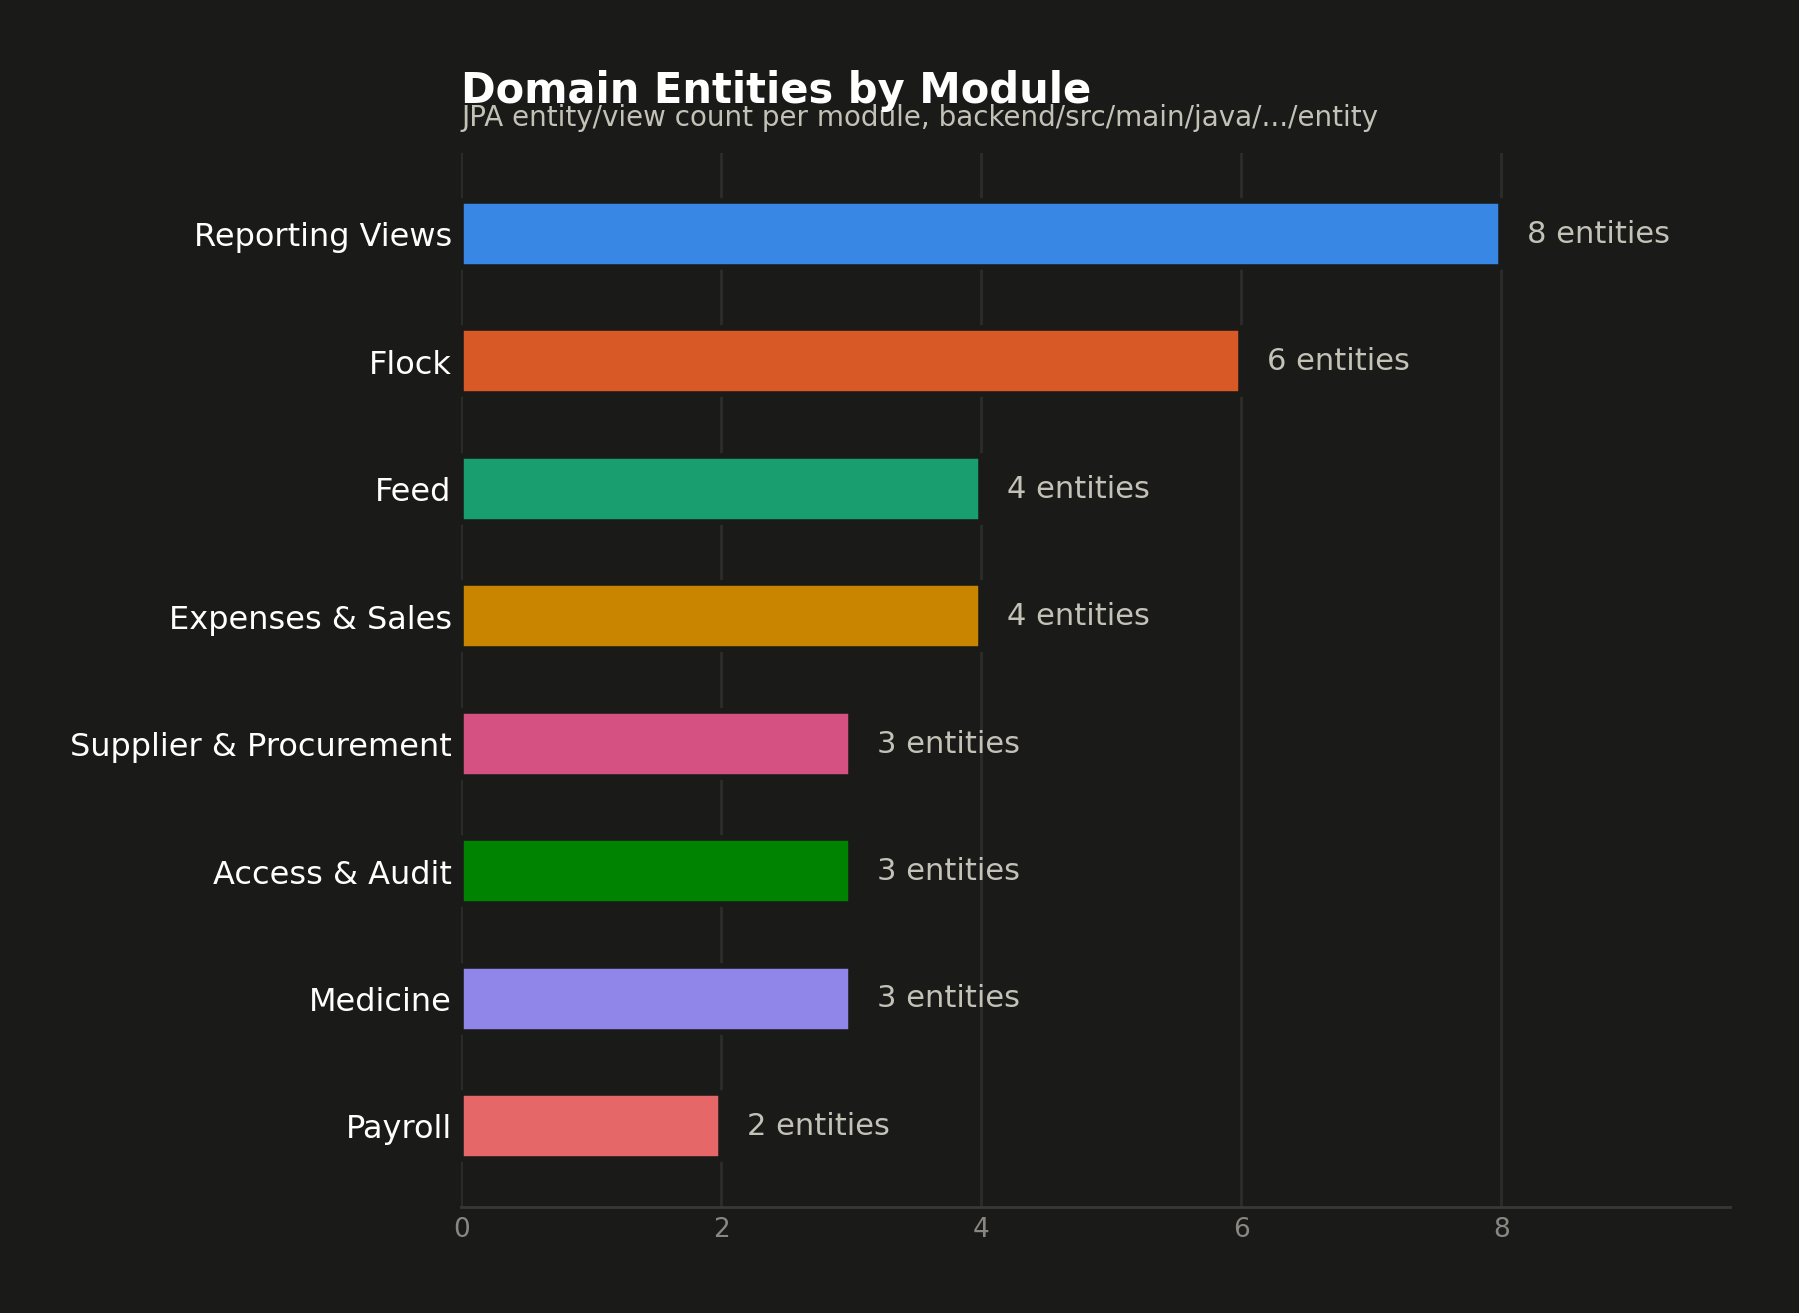
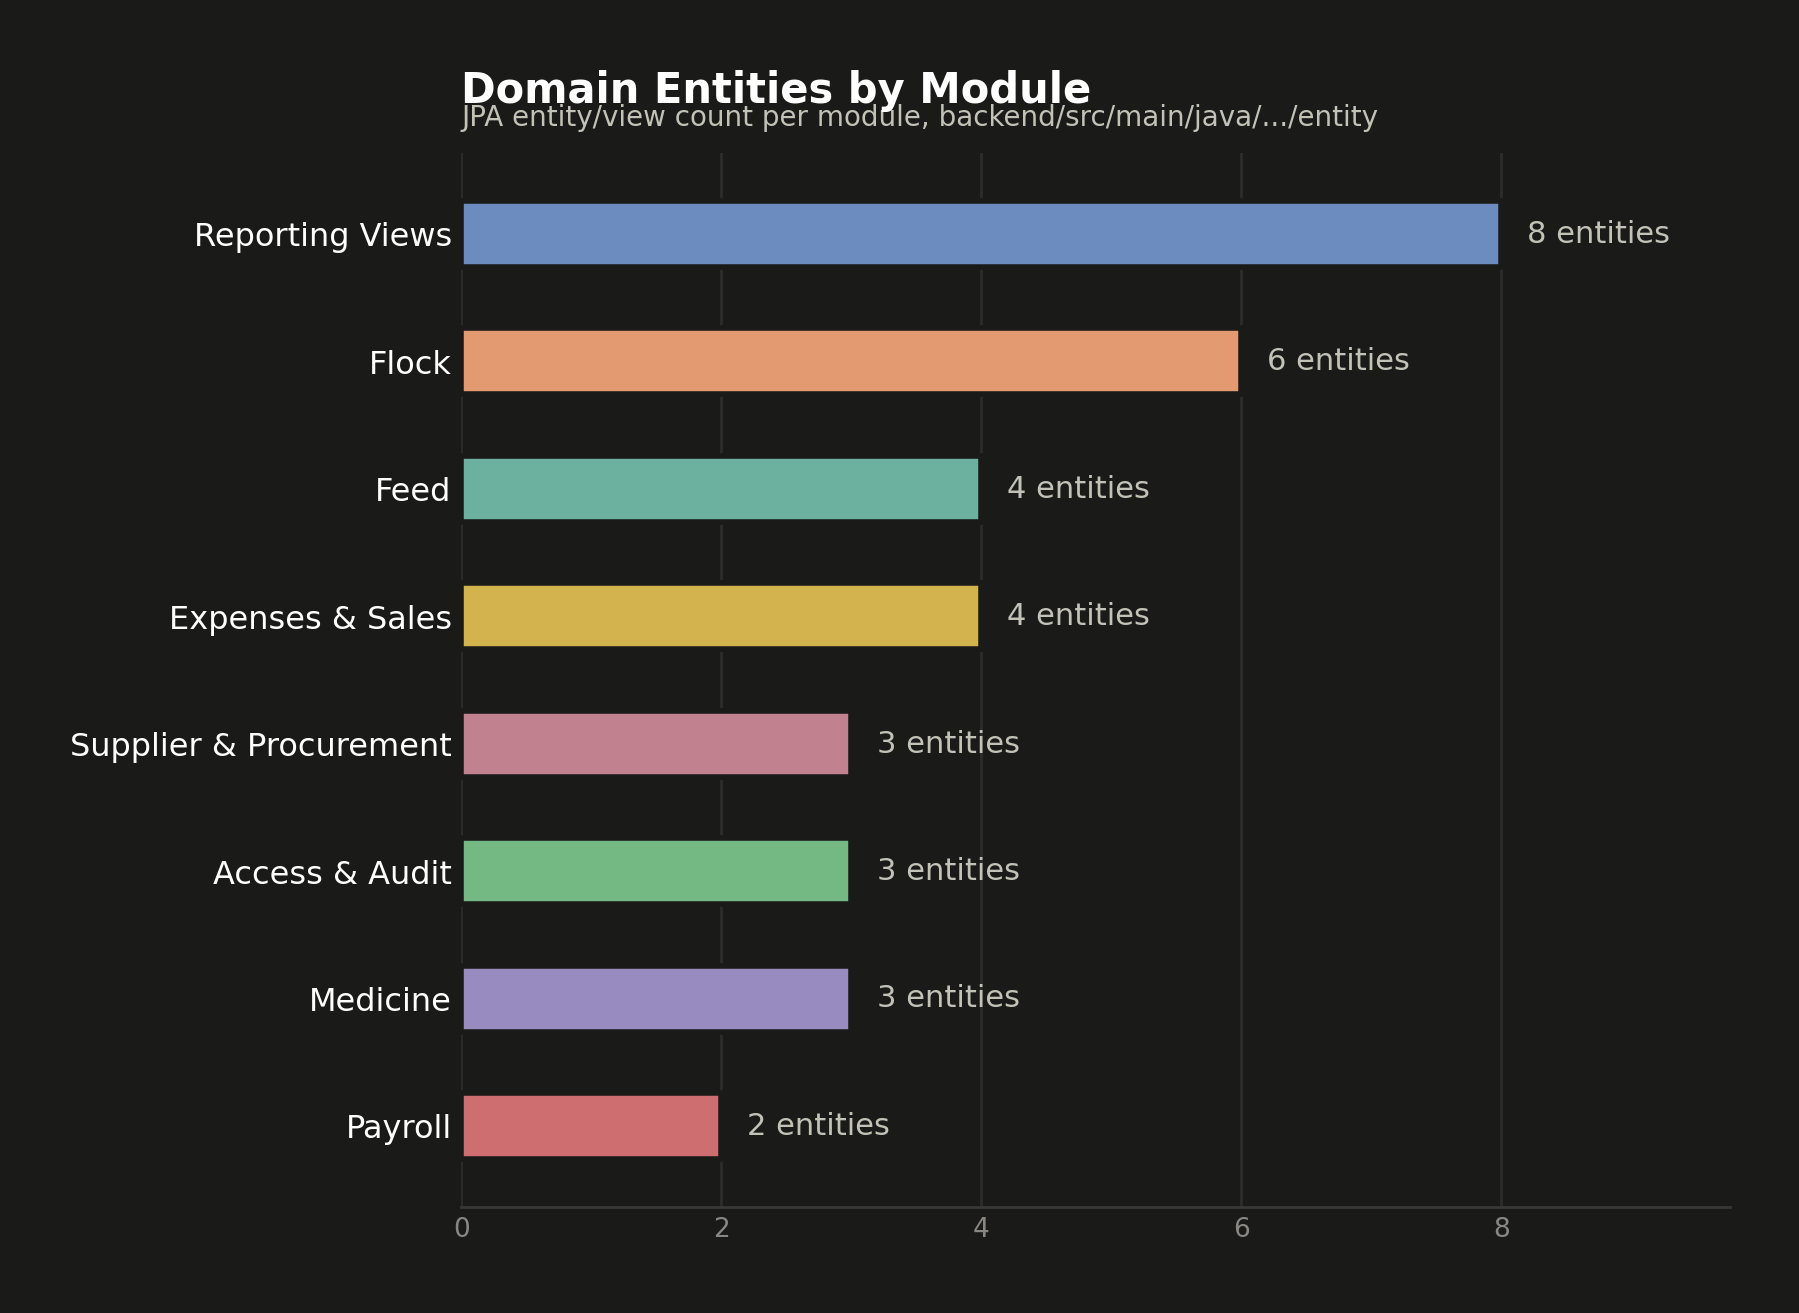
Switch to a more muted, professional color palette

diff --git a/README.md b/README.md
@@ -64,10 +64,10 @@ flowchart LR
     style API fill:#6db33f11,stroke:#6db33f,color:#ffffff
     style DB fill:#4169e122,stroke:#4169e1,color:#ffffff
 
-    classDef sec fill:#e34948,stroke:#8a1f1f,stroke-width:2px,color:#ffffff
-    classDef ctrl fill:#2a78d6,stroke:#184f95,stroke-width:2px,color:#ffffff
-    classDef svc fill:#eda100,stroke:#8a6200,stroke-width:2px,color:#ffffff
-    classDef repo fill:#1baf7a,stroke:#0f7a52,stroke-width:2px,color:#ffffff
+    classDef sec fill:#C44E52,stroke:#8C3336,stroke-width:2px,color:#ffffff
+    classDef ctrl fill:#4C72B0,stroke:#2E4670,stroke-width:2px,color:#ffffff
+    classDef svc fill:#C9A227,stroke:#7A6418,stroke-width:2px,color:#ffffff
+    classDef repo fill:#4C9F8A,stroke:#2F6455,stroke-width:2px,color:#ffffff
     class SEC sec
     class CTRL ctrl
     class SVC svc
